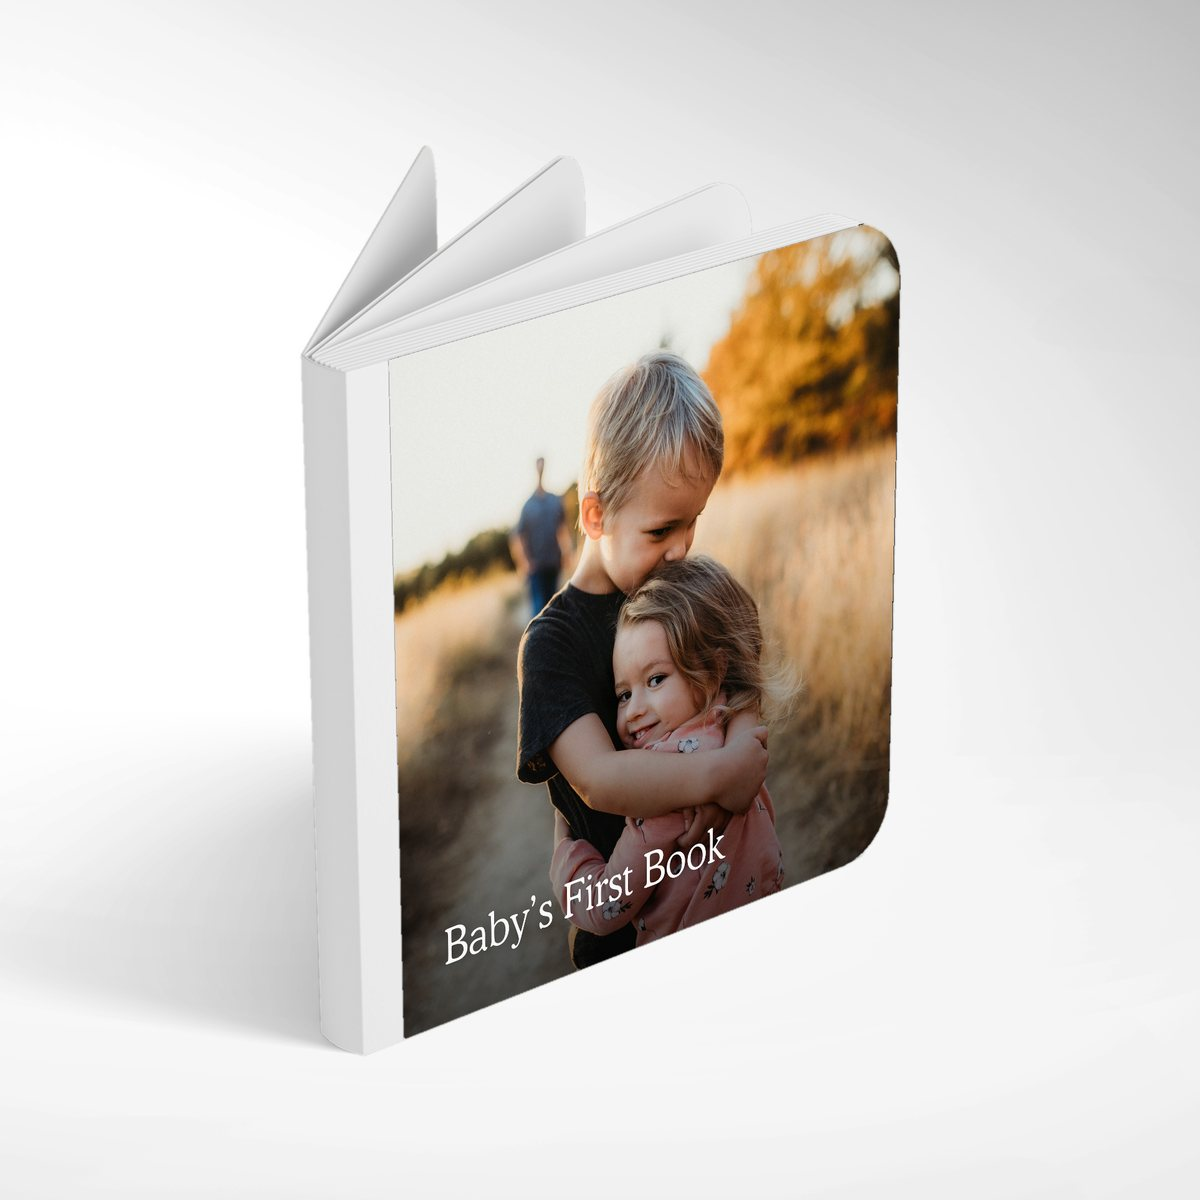
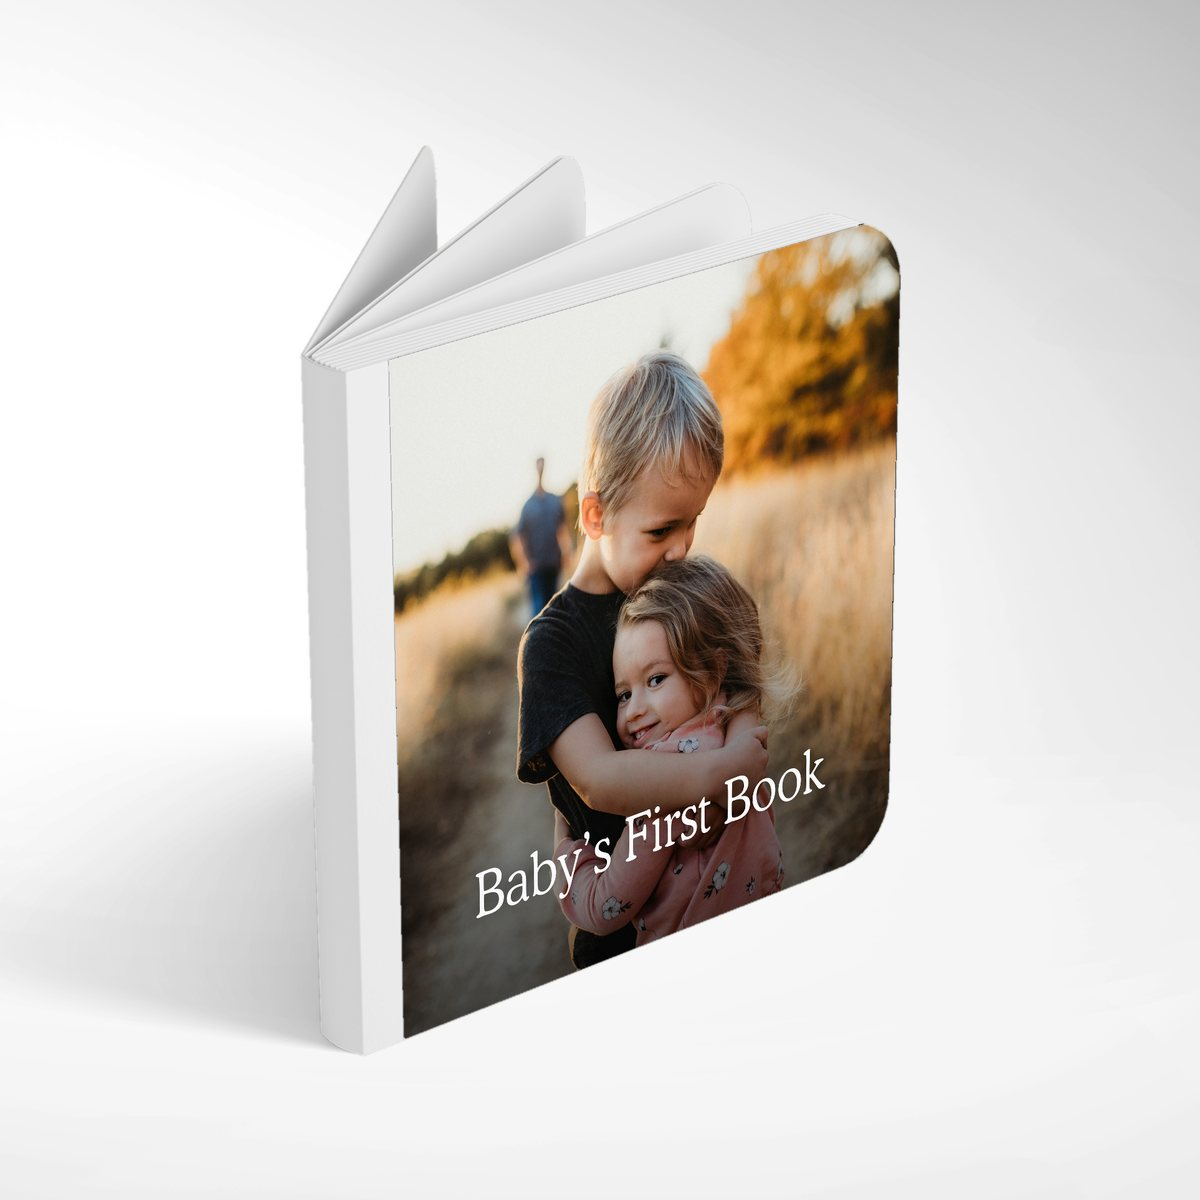
Board book cover title: bigger, clear of the hinge, higher
9.5cqw (was 7.5), 14% in (was 8%, right on the groove), 13% up (was 8%).
Same in the live mockup and the standing gallery still.

Changed region(s): [[0.37, 0.6167, 0.6783, 0.8017]]

diff --git a/public/unsplash-samples.js b/public/unsplash-samples.js
@@ -123,9 +123,10 @@
       '<div style="position:absolute;top:0;bottom:0;left:0;width:1.6%;background:linear-gradient(to right, rgba(255,255,255,0.45), rgba(255,255,255,0));z-index:1;"></div>' +
       '<div style="position:absolute;top:0;bottom:0;left:6.2%;width:1.6%;background:linear-gradient(to right, rgba(0,0,0,0), rgba(0,0,0,0.16) 45%, rgba(255,255,255,0.30) 60%, rgba(255,255,255,0));z-index:1;"></div>' +
       (title || subtitle ? '<div style="position:absolute;left:0;right:0;bottom:0;height:52%;background:linear-gradient(to bottom, rgba(0,0,0,0), rgba(0,0,0,0.55));"></div>' +
-        '<div style="position:absolute;left:8%;right:8%;bottom:8%;color:#fff;font-family:\'CooperBT\',Georgia,serif;text-shadow:0 2px 10px rgba(0,0,0,0.45);">' +
-          (title ? '<div style="font-size:7.5cqw;line-height:1.1;">' + esc(title) + '</div>' : '') +
-          (subtitle ? '<div style="font-size:4.5cqw;opacity:0.9;margin-top:2cqw;">' + esc(subtitle) + '</div>' : '') +
+        // Title clear of the hinge groove (6–8% in) and lifted off the bottom edge.
+        '<div style="position:absolute;left:14%;right:8%;bottom:13%;color:#fff;font-family:\'CooperBT\',Georgia,serif;text-shadow:0 2px 10px rgba(0,0,0,0.45);">' +
+          (title ? '<div style="font-size:9.5cqw;line-height:1.1;">' + esc(title) + '</div>' : '') +
+          (subtitle ? '<div style="font-size:5cqw;opacity:0.9;margin-top:2cqw;">' + esc(subtitle) + '</div>' : '') +
         '</div>' : '');
     const photo = w.querySelector('.bbm-photo');
     const im = new Image();

diff --git a/scripts/boardbook-mockup/boardbook_mockup.py b/scripts/boardbook-mockup/boardbook_mockup.py
@@ -109,7 +109,7 @@ def fit_cover_quad(c):
 
 
 def title_on(img, font_path, title):
-    """The live mockup's cover: bottom gradient + serif title at 8% in."""
+    """The live mockup's cover: bottom gradient + serif title, clear of the hinge."""
     img = img.convert('RGBA')
     W, H = img.size
     grad = Image.new('L', (1, 256))
@@ -119,10 +119,11 @@ def title_on(img, font_path, title):
     shade = Image.new('RGBA', (W, int(H * 0.52)), (0, 0, 0, 0))
     shade.putalpha(g)
     img.alpha_composite(shade, (0, H - shade.height))
-    font = ImageFont.truetype(font_path, int(W * 0.075))
+    size = int(W * 0.095)  # matches boardbookMockup: 9.5cqw, 14% in, 13% up
+    font = ImageFont.truetype(font_path, size)
     glow = Image.new('RGBA', img.size, (0, 0, 0, 0))
     d = ImageDraw.Draw(glow)
-    x, y = int(W * 0.08), int(H * 0.92 - W * 0.075 * 1.1)
+    x, y = int(W * 0.14), int(H * 0.87 - size * 1.1)
     d.text((x, y), title, font=font, fill=(0, 0, 0, 115))
     img.alpha_composite(glow.filter(ImageFilter.GaussianBlur(W * 0.012)))
     ImageDraw.Draw(img).text((x, y), title, font=font, fill=(255, 255, 255, 255))
